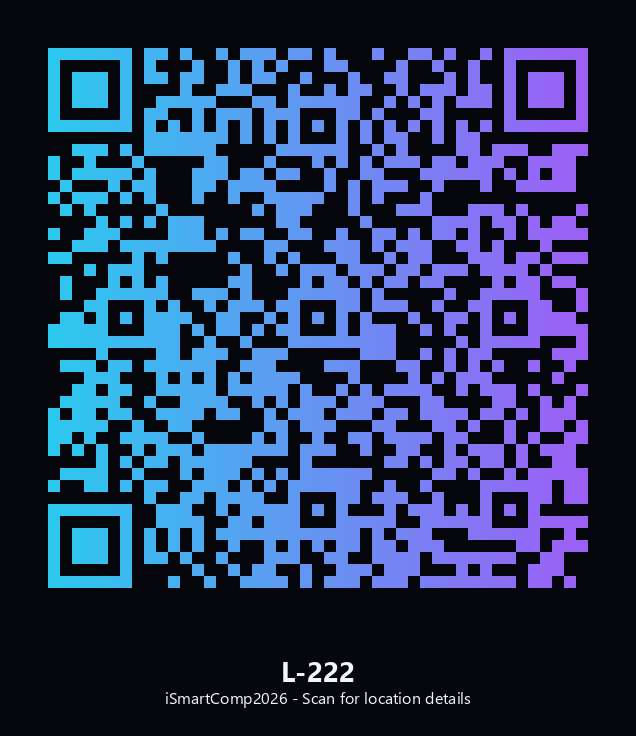
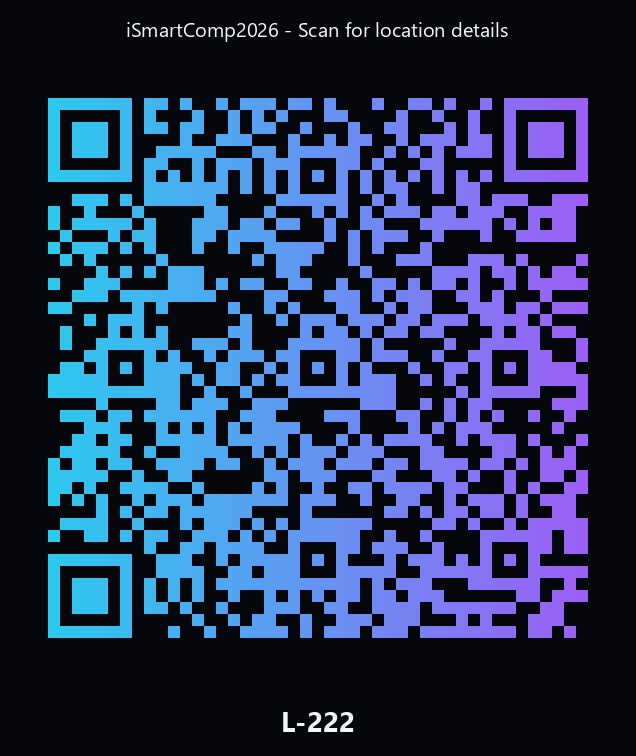
Move conference title to header of QR code image

diff --git a/scripts/generate_qr.py b/scripts/generate_qr.py
@@ -42,39 +42,40 @@ def create_labeled_qr(data, text, filename, subtitle="iSmartComp2026 - Scan for 
     
     # Calculate sizes
     qr_w, qr_h = qr_img.size
-    text_h = 100  # Space for title and subtitle
+    header_h = 50  # Space for conference title at top
+    footer_h = 70  # Space for location name at bottom
     
-    # Create new image with extra space at bottom using theme background
-    new_img = Image.new('RGB', (qr_w, qr_h + text_h), bg_color)
-    new_img.paste(qr_img, (0, 0))
+    # Create new image with extra space at top and bottom
+    new_img = Image.new('RGB', (qr_w, qr_h + header_h + footer_h), bg_color)
+    new_img.paste(qr_img, (0, header_h))
     
     draw = ImageDraw.Draw(new_img)
     
     # Try to load appealing fonts (Segoe UI on Windows), fallback to Arial, then default
     try:
-        font_title = ImageFont.truetype("segoeuib.ttf", 28) # Segoe UI Bold
-        font_sub = ImageFont.truetype("segoeui.ttf", 16)    # Segoe UI Regular
+        font_title = ImageFont.truetype("segoeuib.ttf", 28) # Segoe UI Bold (Location name)
+        font_sub = ImageFont.truetype("segoeui.ttf", 20)    # Segoe UI Regular (Conference title)
     except IOError:
         try:
             font_title = ImageFont.truetype("arialbd.ttf", 26)
-            font_sub = ImageFont.truetype("arial.ttf", 16)
+            font_sub = ImageFont.truetype("arial.ttf", 18)
         except IOError:
             font_title = ImageFont.load_default()
             font_sub = ImageFont.load_default()
             
-    # Center title
-    bbox_title = draw.textbbox((0, 0), text, font=font_title)
-    text_w_title = bbox_title[2] - bbox_title[0]
-    text_x_title = (qr_w - text_w_title) // 2
-    text_y_title = qr_h + 15
-    draw.text((text_x_title, text_y_title), text, fill=text_color, font=font_title)
-    
-    # Center subtitle
+    # Center header (conference title/subtitle)
     bbox_sub = draw.textbbox((0, 0), subtitle, font=font_sub)
     text_w_sub = bbox_sub[2] - bbox_sub[0]
     text_x_sub = (qr_w - text_w_sub) // 2
-    text_y_sub = text_y_title + 35
+    text_y_sub = (header_h - (bbox_sub[3] - bbox_sub[1])) // 2  # Center vertically in header
     draw.text((text_x_sub, text_y_sub), subtitle, fill=text_color, font=font_sub)
+
+    # Center footer (location name/text)
+    bbox_title = draw.textbbox((0, 0), text, font=font_title)
+    text_w_title = bbox_title[2] - bbox_title[0]
+    text_x_title = (qr_w - text_w_title) // 2
+    text_y_title = header_h + qr_h + 15
+    draw.text((text_x_title, text_y_title), text, fill=text_color, font=font_title)
     
     filepath = os.path.join(OUTPUT_FOLDER, filename)
     new_img.save(filepath)
